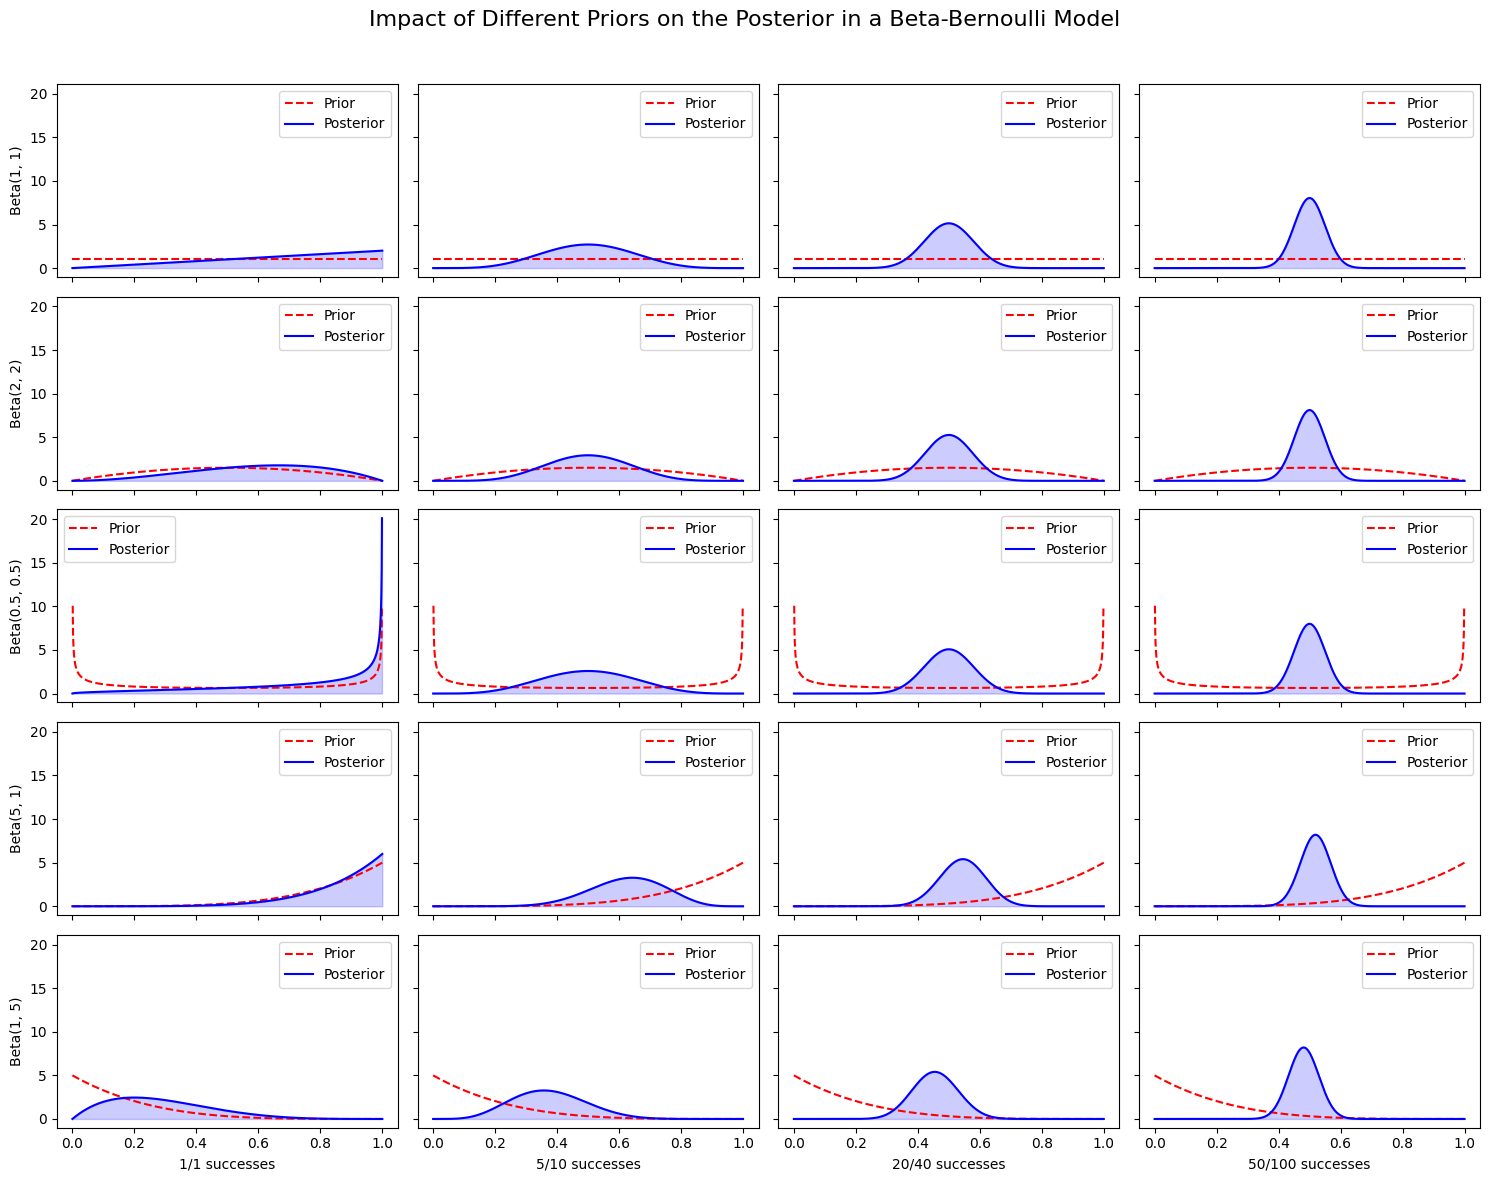
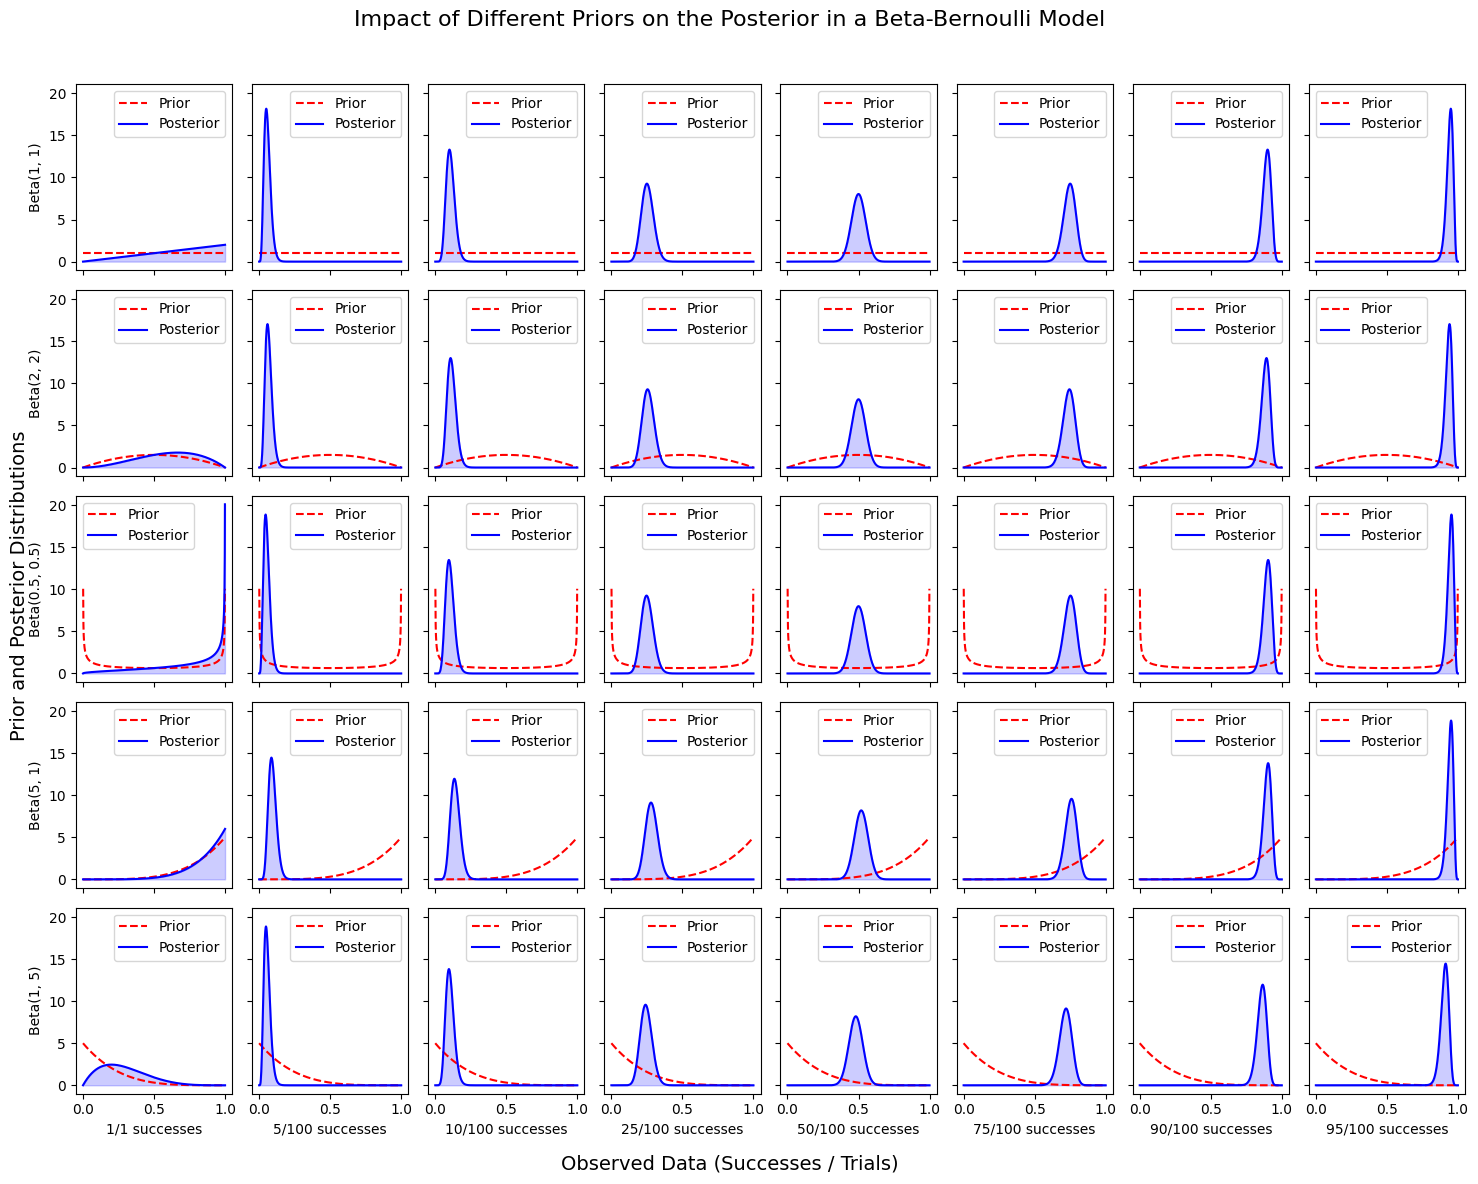
feat: update beta bernoulli prior plot

diff --git a/reinforcement_learning/bernoulli_bandits/beta_priors.py b/reinforcement_learning/bernoulli_bandits/beta_priors.py
@@ -16,9 +16,13 @@ def main() -> int:
     # Define different observed data scenarios (number of successes and trials)
     data_scenarios = [
         (1, 1),  # Very little data
-        (5, 10),  # Moderate data
-        (20, 40),  # More data
-        (50, 100),  # Large dataset
+        (5, 100),  # P = 0.05
+        (10, 100),  # P = 0.10
+        (25, 100),  # P = 0.25
+        (50, 100),  # P = 0.50
+        (75, 100),  # P = 0.75
+        (90, 100),  # P = 0.90
+        (95, 100),  # P = 0.95
     ]
 
     fig, axes = plt.subplots(
@@ -60,6 +64,8 @@ def main() -> int:
         "Impact of Different Priors on the Posterior in a Beta-Bernoulli Model",
         fontsize=16,
     )
+    fig.supxlabel("Observed Data (Successes / Trials)", fontsize=14)
+    fig.supylabel("Prior and Posterior Distributions", fontsize=14)
     plt.tight_layout(rect=(0, 0, 1, 0.96))
     plt.show()
 
